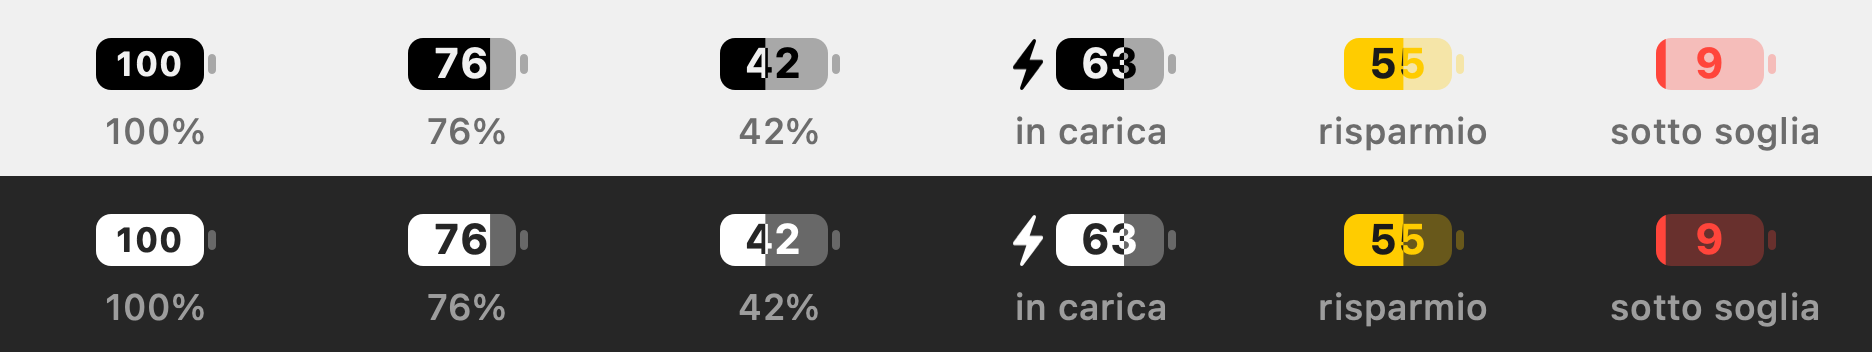
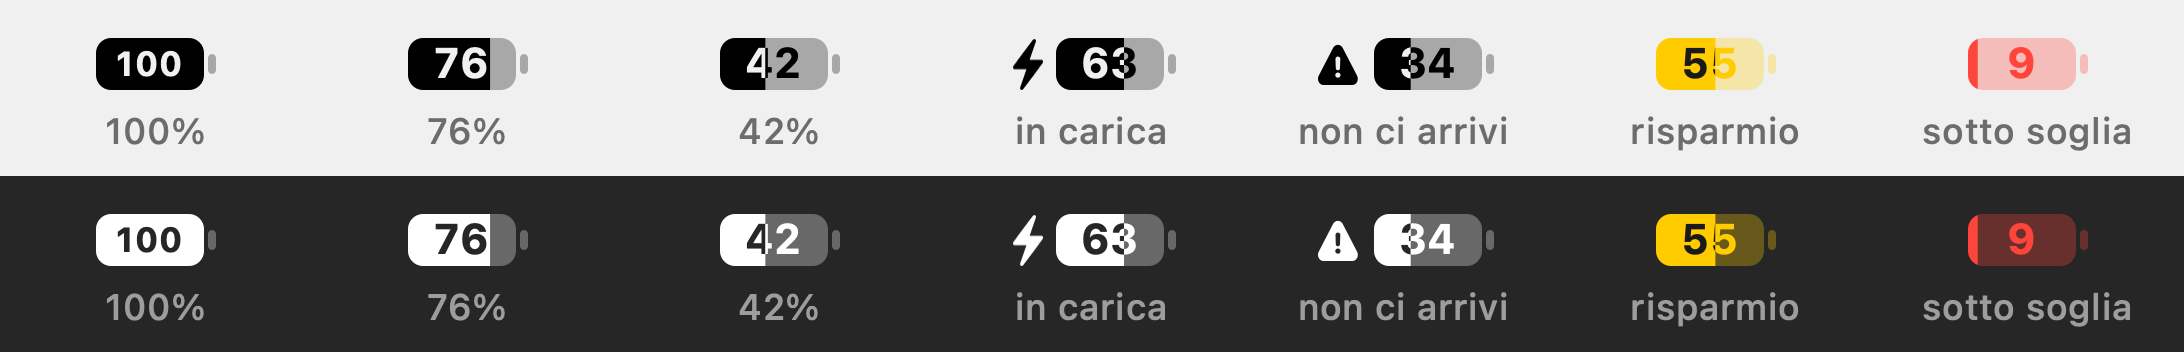
Keep the battery visible with the warning, and look at the next hours after the end of day
MenuBarExtra shows only the first image of its label, so the warning triangle replaced
the battery. It is now drawn inside the battery image, where the charging bolt goes.

Past the end of day (until the morning alert time) the outlook no longer plans tomorrow:
it starts from the real level and targets the next 3 hours, with its own verdict titles.
The live alert stays a daytime alert.

diff --git a/Sources/BatteryOracle/Views/PopoverView.swift b/Sources/BatteryOracle/Views/PopoverView.swift
@@ -163,7 +163,7 @@ struct VerdictCard: View {
                     .symbolEffect(.bounce, value: o.verdict)
                     .frame(width: 34)
                 VStack(alignment: .leading, spacing: 2) {
-                    Text(o.verdict.title).font(.title3.weight(.semibold))
+                    Text(o.verdict.title(evening: o.isEvening)).font(.title3.weight(.semibold))
                     Text(subtitle).font(.callout).foregroundStyle(.secondary).fixedSize(horizontal: false, vertical: true)
                 }
                 Spacer(minLength: 0)
@@ -182,7 +182,7 @@ struct VerdictCard: View {
 
     private var subtitle: String {
         let plugged = m.battery?.plugged == true
-        let lead = o.isTomorrow ? "Domani, partendo carico alle \(o.start.hm): " : plugged ? "Se stacchi ora, " : ""
+        let lead = plugged ? "Se stacchi ora, " : ""
         let p = Int((o.probability * 100).rounded())
         switch o.verdict {
         case .fine: return "\(lead)\(p)% di probabilità di arrivare alle \(o.endOfDay.hm) sopra il \(Int(m.threshold))%."
@@ -215,7 +215,7 @@ struct ProbabilityDial: View {
             Text("prob.").font(.system(size: 8)).foregroundStyle(.secondary).offset(y: 17)
         }
         .frame(width: 42, height: 42)
-        .help("Probabilità di arrivare a fine giornata sopra la soglia")
+        .help("Probabilità di arrivare all'orario indicato sopra la soglia")
     }
 }
 
@@ -229,15 +229,15 @@ struct ForecastChart: View {
     private var hover: Date? { hoverState.date }
 
     var body: some View {
-        let history = o.isTomorrow ? [] : m.recentLevels
-        let start = o.isTomorrow ? o.start.addingTimeInterval(-1800) : history.first?.date ?? Date().addingTimeInterval(-12 * 3600)
+        let history = m.recentLevels
+        let start = history.first?.date ?? Date().addingTimeInterval(-12 * 3600)
         let end = max(o.endOfDay.addingTimeInterval(3 * 3600), o.start.addingTimeInterval(12 * 3600))
         let points = o.points.filter { $0.date <= end }
         let accent = o.verdict.color
 
         VStack(alignment: .leading, spacing: 16) {
-            SectionTitle(text: o.isTomorrow ? "Domani" : "Prossime ore",
-                         trailing: o.isTomorrow ? "parti al 100% alle \(o.start.hm)" : m.battery?.plugged == true ? "ipotesi: stacchi ora" : "fascia 80% e 50%")
+            SectionTitle(text: "Prossime ore",
+                         trailing: m.battery?.plugged == true ? "ipotesi: stacchi ora" : "fascia 80% e 50%")
             Chart {
                 RectangleMark(xStart: .value("", start), xEnd: .value("", end), yStart: .value("", 0), yEnd: .value("", m.threshold))
                     .foregroundStyle(.red.opacity(0.07))
@@ -263,7 +263,7 @@ struct ForecastChart: View {
                 RuleMark(x: .value("Adesso", o.start))
                     .foregroundStyle(.secondary.opacity(0.6))
                     .annotation(position: .top, alignment: .center, spacing: 2) {
-                        Text(o.isTomorrow ? "sveglia" : "ora").font(.system(size: 9)).foregroundStyle(.secondary)
+                        Text("ora").font(.system(size: 9)).foregroundStyle(.secondary)
                     }
                 RuleMark(x: .value("Fine giornata", o.endOfDay))
                     .foregroundStyle(accent.opacity(0.7))

diff --git a/Sources/BatteryOracle/AppModel.swift b/Sources/BatteryOracle/AppModel.swift
@@ -154,19 +154,27 @@ final class AppModel: ObservableObject {
         return lowPowerMode ? .lowPower : .normal
     }
 
-    /// Once today's end of day has passed, the question becomes tomorrow, after a night on the charger.
-    var planningTomorrow: Bool { today(at: endOfDayMinutes) <= Date().addingTimeInterval(15 * 60) }
+    /// How far ahead the outlook looks once the working day is over.
+    static let eveningHours = 3.0
+
+    /// From the end of day until the morning there is no finish line: the Mac may stay in use for hours more,
+    /// so the question becomes the next few hours rather than tomorrow.
+    var evening: Bool {
+        if today(at: endOfDayMinutes) <= Date().addingTimeInterval(15 * 60) { return true }
+        return morningMinutes < endOfDayMinutes && Date() < today(at: morningMinutes)
+    }
 
     var endOfDay: Date {
-        let end = today(at: endOfDayMinutes)
-        return planningTomorrow ? Calendar.current.date(byAdding: .day, value: 1, to: end)! : end
+        guard evening else { return today(at: endOfDayMinutes) }
+        // Rounded up to the quarter hour, so the target doesn't creep forward at every reading.
+        let t = Date().addingTimeInterval(Self.eveningHours * 3600).timeIntervalSince1970
+        return Date(timeIntervalSince1970: (t / 900).rounded(.up) * 900)
     }
 
     func resimulate() {
         guard let f = forecast, let b = battery else { return }
-        let morning = planningTomorrow ? Calendar.current.date(byAdding: .day, value: 1, to: today(at: morningMinutes)) : nil
-        outlook = Outlook(forecast: f, level: morning == nil ? b.level : 100, fullChargeWh: b.fullChargeWh,
-                          calibration: calibration, threshold: threshold, endOfDay: endOfDay, tomorrowFrom: morning)
+        outlook = Outlook(forecast: f, level: b.level, fullChargeWh: b.fullChargeWh, calibration: calibration,
+                          threshold: threshold, endOfDay: endOfDay, isEvening: evening)
     }
 
     /// Battery level over the last 12 hours, for the chart.
@@ -199,7 +207,7 @@ final class AppModel: ObservableObject {
                        "Alle \(end) si prevede il \(Int(o.levelAtEnd))%: \(Int(o.probability * 100))% di probabilità di arrivarci sopra il \(Int(threshold))%.")
             }
         }
-        if liveAlert, lastLiveAlert != today, !b.plugged, o.probability < 0.4, let when = o.reachesThreshold, when < endOfDay {
+        if liveAlert, lastLiveAlert != today, !evening, !b.plugged, o.probability < 0.4, let when = o.reachesThreshold, when < endOfDay {
             lastLiveAlert = today
             notify("A questo ritmo non arrivi alle \(end)",
                    "Scenderai sotto il \(Int(threshold))% verso le \(when.formatted(date: .omitted, time: .shortened)). Meglio ricaricare prima.")

diff --git a/Sources/BatteryOracle/Views/MenuBarBattery.swift b/Sources/BatteryOracle/Views/MenuBarBattery.swift
@@ -16,11 +16,13 @@ enum BatteryTint {
 /// Draws the menu bar battery the way macOS does: a rounded body with the percentage inside it,
 /// the charged part solid and the rest dimmed. The digits are knocked out of the shape, so they stay
 /// legible on any menu bar. Untinted icons are template images (macOS recolors them for light and dark
-/// menu bars); tinted ones carry their own color.
+/// menu bars); tinted ones carry their own color. A warning triangle can sit where the charging bolt goes:
+/// MenuBarExtra shows only the first image of its label, so it has to be part of the same image as the battery.
 enum MenuBarBattery {
-    static func image(level: Double, charging: Bool, showPercent: Bool, tint: BatteryTint) -> NSImage {
+    static func image(level: Double, charging: Bool, showPercent: Bool, tint: BatteryTint, warning: Bool = false) -> NSImage {
         let body = CGSize(width: 27, height: 13)
-        let nub: CGFloat = 2, bolt: CGFloat = charging ? 12 : 0
+        let lead = charging ? "bolt.fill" : warning ? "exclamationmark.triangle.fill" : nil
+        let nub: CGFloat = 2, bolt: CGFloat = charging ? 12 : warning ? 15 : 0
         let size = NSSize(width: bolt + body.width + nub + 1, height: 16)
         let color = tint.color ?? .black
         let level = min(100, max(0, level))
@@ -41,9 +43,9 @@ enum MenuBarBattery {
             NSBezierPath(roundedRect: NSRect(x: rect.maxX + 1, y: rect.midY - 2.5, width: nub, height: 5),
                          xRadius: 1, yRadius: 1).fill()
 
-            if charging, let symbol = NSImage(systemSymbolName: "bolt.fill", accessibilityDescription: nil)?
-                .withSymbolConfiguration(.init(pointSize: 10, weight: .bold)) {
-                // SF Symbols draw black; tint a copy so the bolt follows the icon's color.
+            if let lead, let symbol = NSImage(systemSymbolName: lead, accessibilityDescription: nil)?
+                .withSymbolConfiguration(.init(pointSize: charging ? 10 : 9.5, weight: .bold)) {
+                // SF Symbols draw black; tint a copy so the glyph follows the icon's color.
                 let glyph = NSImage(size: symbol.size, flipped: false) { r in
                     symbol.draw(in: r)
                     color.setFill()

diff --git a/Sources/BatteryOracle/Forecaster.swift b/Sources/BatteryOracle/Forecaster.swift
@@ -170,8 +170,8 @@ struct Outlook {
     var reachesThreshold: Date?      // median time the battery crosses the threshold
     var empty: Date?                 // median time the battery runs out
     var averageWatts: Double = 0     // forecast mean draw until end of day
-    var start: Date                  // when the simulated day starts (now, or tomorrow morning)
-    var isTomorrow = false
+    var start: Date                  // when the simulation starts
+    var isEvening = false            // past the end of day: endOfDay is a few hours from now
 
     enum Verdict { case fine, tight, charger }
     var verdict: Verdict { probability >= 0.85 ? .fine : probability >= 0.5 ? .tight : .charger }
@@ -180,11 +180,10 @@ struct Outlook {
     /// so the p-th power quantile gives the (1-p)-th level quantile (assumes the paths move together,
     /// which makes the bands deliberately conservative).
     init(forecast f: PowerForecast, level: Double, fullChargeWh: Double, calibration: Double,
-         threshold: Double, endOfDay: Date, now: Date = Date(), tomorrowFrom: Date? = nil) {
+         threshold: Double, endOfDay: Date, now: Date = Date(), isEvening: Bool = false) {
         self.endOfDay = endOfDay
-        let now = tomorrowFrom ?? now
         start = now
-        isTomorrow = tomorrowFrom != nil
+        self.isEvening = isEvening
         let pctPerWattStep = f.step / 3600 / fullChargeWh * 100 * calibration
         let firstStep = max(0, Int(((now.timeIntervalSince1970 - f.start) / f.step).rounded(.down)))
         guard firstStep < f.horizon else { return }

diff --git a/scripts/render-menubar/main.swift b/scripts/render-menubar/main.swift
@@ -2,9 +2,10 @@
 // Run with: ./scripts/render-menubar.sh
 import AppKit
 
-let states: [(label: String, level: Double, charging: Bool, tint: BatteryTint)] = [
-    ("100%", 100, false, .normal), ("76%", 76, false, .normal), ("42%", 42, false, .normal),
-    ("in carica", 63, true, .normal), ("risparmio", 55, false, .lowPower), ("sotto soglia", 9, false, .low),
+let states: [(label: String, level: Double, charging: Bool, tint: BatteryTint, warning: Bool)] = [
+    ("100%", 100, false, .normal, false), ("76%", 76, false, .normal, false), ("42%", 42, false, .normal, false),
+    ("in carica", 63, true, .normal, false), ("non ci arrivi", 34, false, .normal, true),
+    ("risparmio", 55, false, .lowPower, false), ("sotto soglia", 9, false, .low, false),
 ]
 let scale: CGFloat = 4, cell: CGFloat = 78, rowH: CGFloat = 44
 let size = NSSize(width: cell * CGFloat(states.count), height: rowH * 2)
@@ -22,7 +23,7 @@ for (row, dark) in [(1, false), (0, true)] {
     NSRect(x: 0, y: y, width: size.width, height: rowH).fill()
     let ink: NSColor = dark ? .white : .black
     for (i, s) in states.enumerated() {
-        let icon = MenuBarBattery.image(level: s.level, charging: s.charging, showPercent: true, tint: s.tint)
+        let icon = MenuBarBattery.image(level: s.level, charging: s.charging, showPercent: true, tint: s.tint, warning: s.warning)
         // Template icons are recolored by macOS; do the same here.
         let drawn = icon.isTemplate ? NSImage(size: icon.size, flipped: false) { r in
             icon.draw(in: r)

diff --git a/Sources/BatteryOracle/BatteryOracleApp.swift b/Sources/BatteryOracle/BatteryOracleApp.swift
@@ -21,12 +21,9 @@ struct MenuBarLabel: View {
 
     var body: some View {
         let warn = m.outlook?.verdict == .charger && m.battery?.plugged == false
-        HStack(spacing: 3) {
-            if warn { Image(systemName: "exclamationmark.triangle.fill") }
-            Image(nsImage: MenuBarBattery.image(level: m.battery?.level ?? 0, charging: m.battery?.charging == true,
-                                                showPercent: m.showPercent, tint: m.batteryTint))
-        }
-        .onAppear { PreviewWindow.showIfRequested(m) }
+        Image(nsImage: MenuBarBattery.image(level: m.battery?.level ?? 0, charging: m.battery?.charging == true,
+                                            showPercent: m.showPercent, tint: m.batteryTint, warning: warn))
+            .onAppear { PreviewWindow.showIfRequested(m) }
     }
 }
 

diff --git a/Sources/BatteryOracle/Views/Components.swift b/Sources/BatteryOracle/Views/Components.swift
@@ -15,11 +15,14 @@ extension Outlook.Verdict {
         case .charger: "powerplug.fill"
         }
     }
-    var title: String {
-        switch self {
-        case .fine: "Arrivi a fine giornata"
-        case .tight: "Ce la fai, ma al limite"
-        case .charger: "Porta il caricabatterie"
+    func title(evening: Bool) -> String {
+        switch (self, evening) {
+        case (.fine, false): "Arrivi a fine giornata"
+        case (.tight, false): "Ce la fai, ma al limite"
+        case (.charger, false): "Porta il caricabatterie"
+        case (.fine, true): "Batteria per le prossime ore"
+        case (.tight, true): "Prossime ore al limite"
+        case (.charger, true): "Ricarica a breve"
         }
     }
 }

diff --git a/README.md b/README.md
@@ -28,11 +28,11 @@
 
 - **Verdetto con probabilità**: *Arrivi a fine giornata*, *Ce la fai, ma al limite* o *Porta il caricabatterie*, con la probabilità di arrivare all'orario scelto sopra la soglia minima.
 - **Grafico delle prossime ore**: livello reale delle ultime 12 ore, previsione mediana e due fasce di incertezza (80% e 50%), con passaggio del mouse per leggere ogni punto.
-- **Pianifica domani**: dopo la fine giornata la previsione passa a domani, partendo carico all'ora del risveglio.
+- **Dopo la fine giornata**: la previsione guarda alle prossime 3 ore e all'autonomia rimasta, perché il Mac può restare acceso ancora a lungo. Torna sull'orario di fine giornata dopo l'ora dell'avviso del mattino.
 - **Abitudini**: consumo medio ora per ora, energia al giorno divisa tra batteria e alimentatore, ora di punta, autonomia tipica.
 - **Avvisi**: una notifica al mattino se la giornata sarà al limite, e un'altra se durante il giorno il ritmo non basta. Arrivano solo quando lo schermo è acceso: se scattano a Mac chiuso, aspettano che lo riapri.
 - **Salute batteria**: capacità residua, cicli e temperatura direttamente nel popover.
-- **Batteria nella barra dei menu in stile Apple**, con la percentuale dentro per occupare poco spazio. Diventa **gialla** con il risparmio energetico attivo e **rossa** sotto la soglia scelta; in carica compare il fulmine.
+- **Batteria nella barra dei menu in stile Apple**, con la percentuale dentro per occupare poco spazio. Diventa **gialla** con il risparmio energetico attivo e **rossa** sotto la soglia scelta; in carica compare il fulmine. Se a questo ritmo non arrivi a fine giornata, accanto alla batteria compare un triangolo di avviso, senza nasconderla.
 - **Interruttore del risparmio energetico** nel popover (vedi sotto).
 - Avvio al login, soglia e orari configurabili, percentuale dentro la batteria attivabile dalle impostazioni.
 
